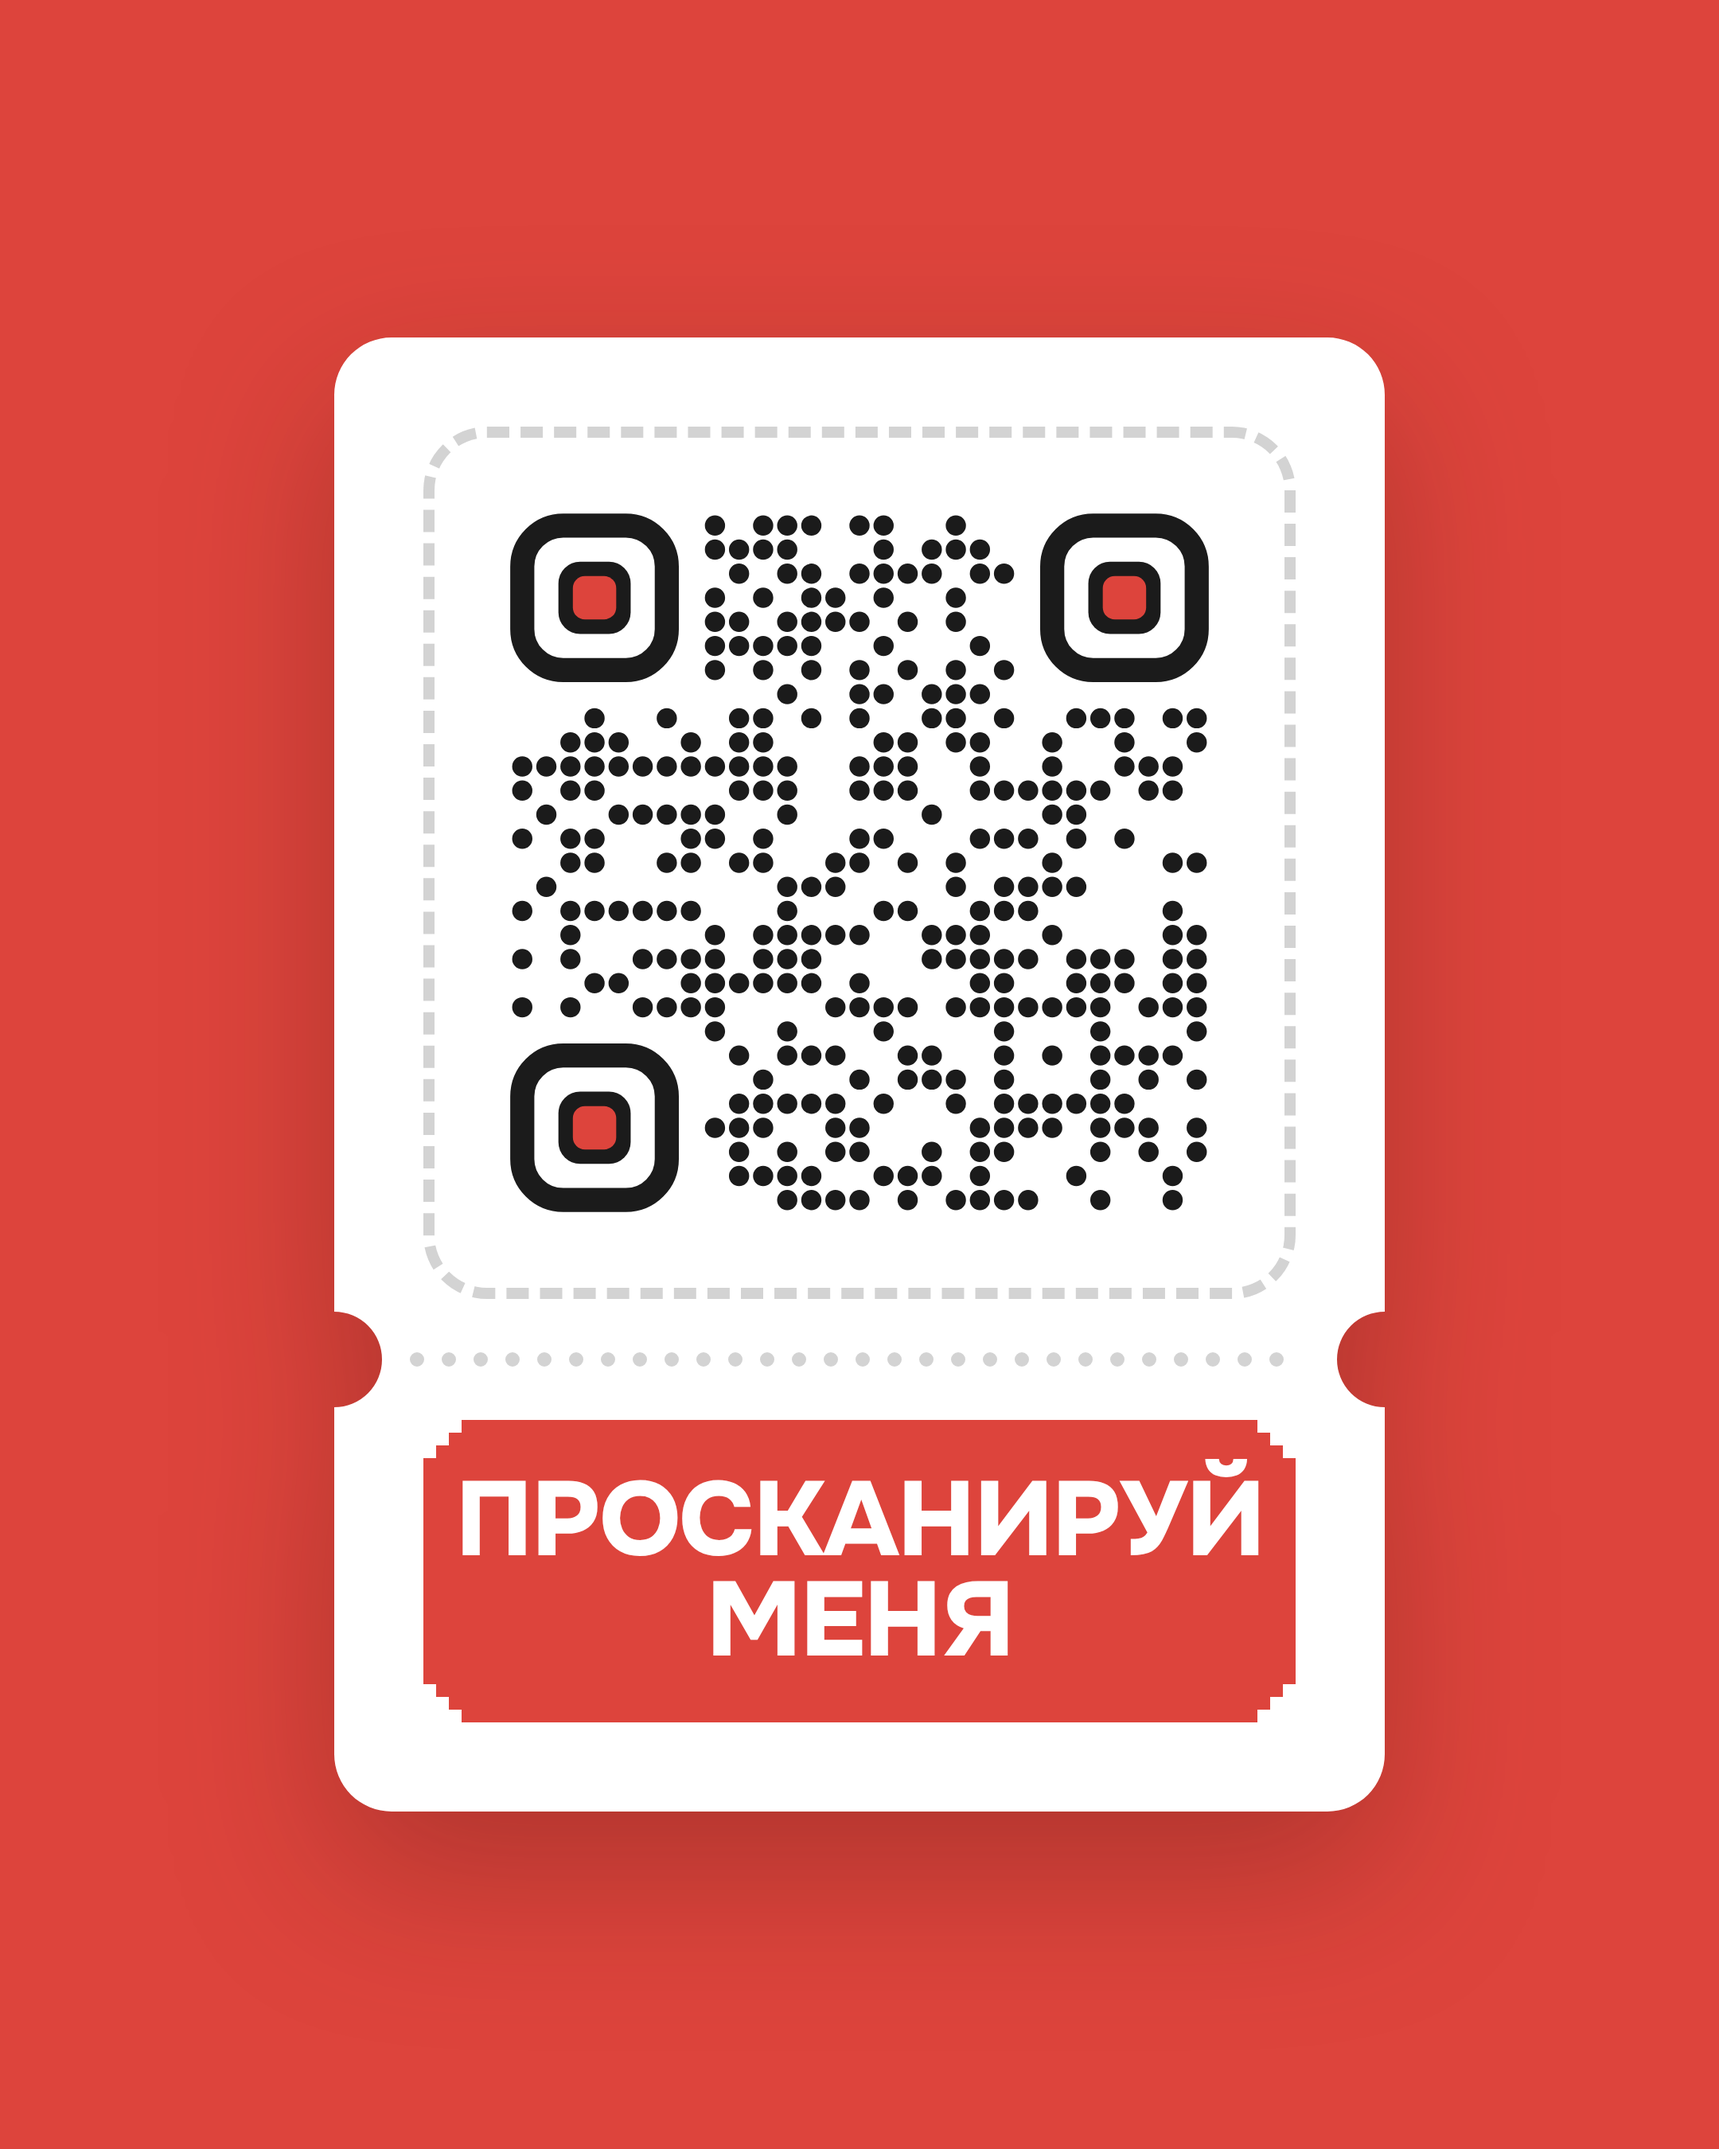
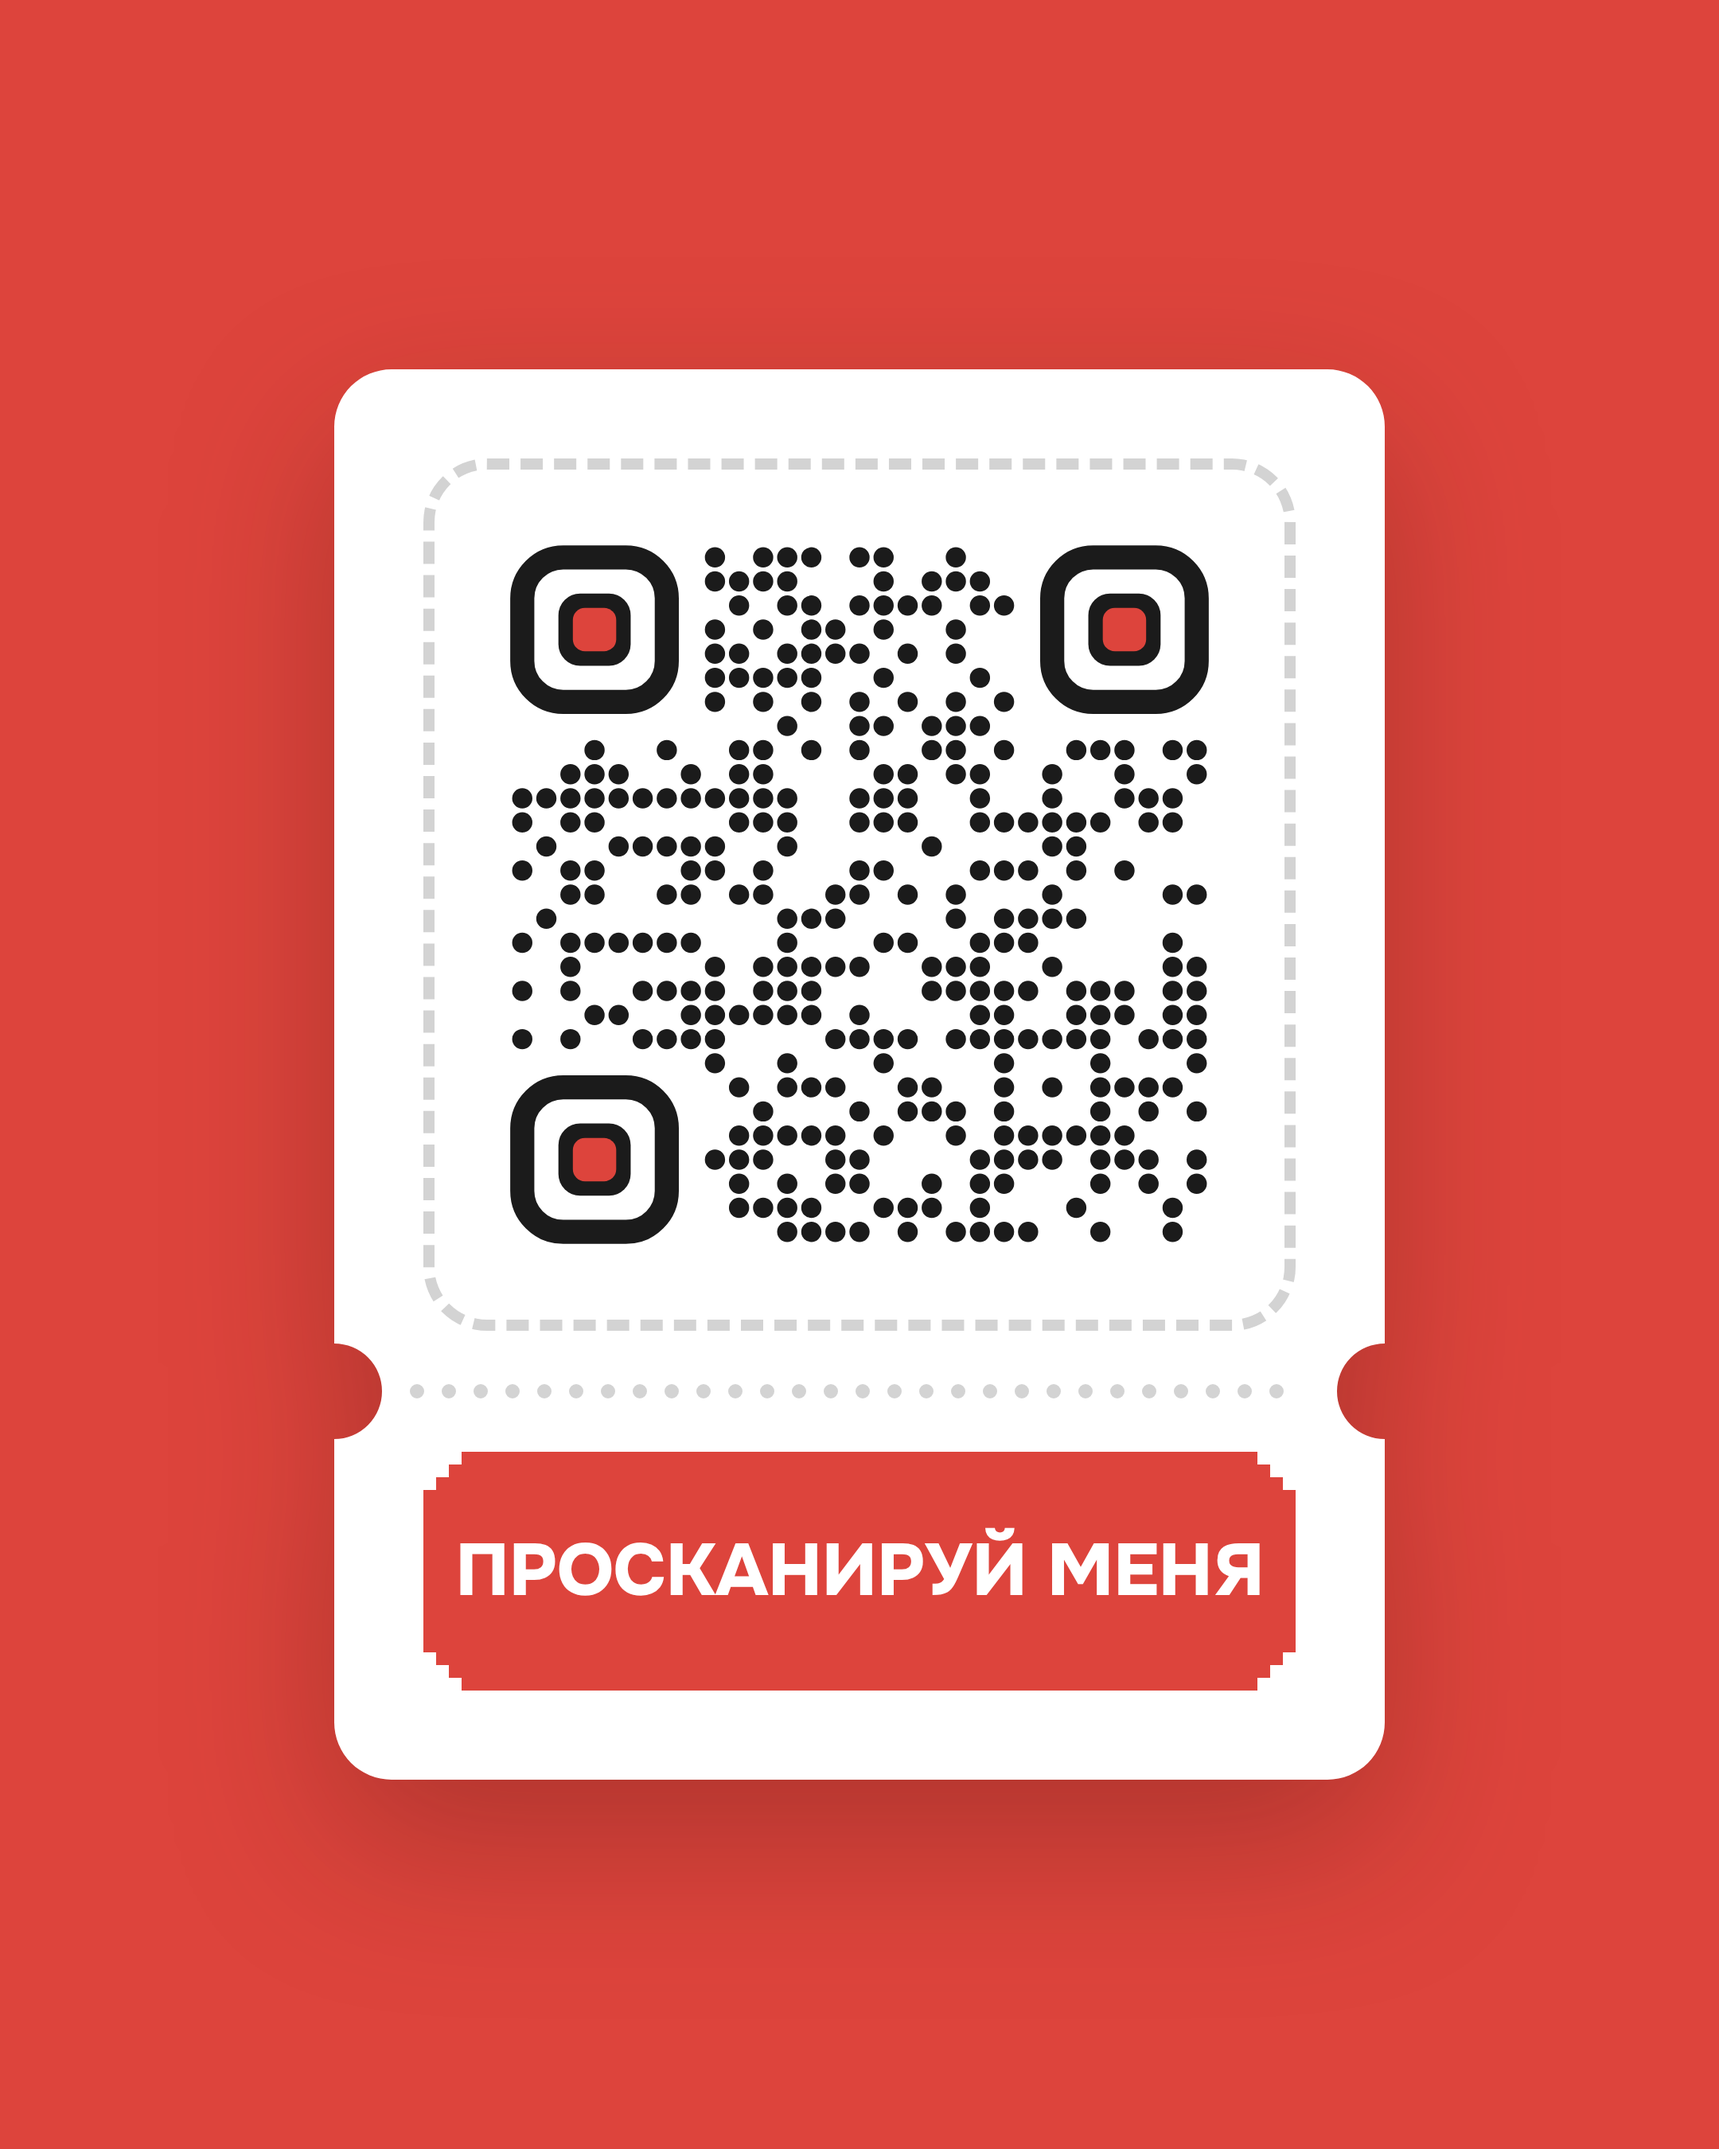
QR-билеты: надпись «Просканируй меня» в одну строку, вариант C (купон со скидкой) убран
Claude-Session: https://claude.ai/code/session_01M3C7PePbBWD8UdhAot99Ud

Changed region(s): [[0.1861, 0.1556, 0.8065, 0.84], [0.7755, 0.5911, 0.8065, 0.6844]]

diff --git a/social-kit/qr-coupons.html b/social-kit/qr-coupons.html
@@ -14,7 +14,6 @@
      краем, визитка с аватаром):
        A. Билет — волнистый верх и низ, красный QR с логотипом, корешок с сайтом.
        B. Визитка — логотип в круге сверху, название, пунктир с вырезами, QR.
-       C. Купон со скидкой — выгода и условия сверху, QR-код купона и сам код.
        D. Красный билет — инверсия A: белый QR на красном.
        E. «Просканируй меня» — по референсу с −50%, но вертикально: точечный
           QR в пунктирной рамке занимает большую часть, ниже линия отрыва и
@@ -26,7 +25,7 @@
      Контуры билетов — векторные, считает скрипт внизу: в Figma переносятся
      одним path, вырезы — настоящие, а не круги поверх.
 
-     PNG — render-qr.py → out/qr/qr-a.png … qr-d.png (1080×1350).
+     PNG — render-qr.py → out/qr/qr-a.png … qr-f.png (без C) (1080×1350).
      ========================================================================== -->
 <link rel="stylesheet" href="fonts/onest.css">
 <style>
@@ -90,19 +89,6 @@ a{color:inherit;text-decoration:none}
 .qb__site{margin-top:40px;font-size:30px;font-weight:700;color:var(--ink-2)}
 .qb__site b{color:var(--brand);font-weight:800}
 
-/* ---------- C. Купон со скидкой ---------- */
-.qc{width:660px;padding:92px 64px 0;align-items:stretch}
-.qc__top{display:flex;flex-direction:column-reverse;align-items:flex-start;gap:22px}
-.qc__val{font-size:132px;font-weight:800;letter-spacing:-.05em;line-height:.85;color:var(--brand)}
-.qc__cat{padding:10px 18px;border-radius:999px;background:var(--brand-50);color:var(--brand);font-size:22px;font-weight:700;white-space:nowrap}
-.qc__t{margin-top:30px;font-size:40px;font-weight:800;letter-spacing:-.02em;line-height:1.15}
-.qc__m{margin-top:14px;font-size:24px;font-weight:500;color:var(--ink-2);line-height:1.4}
-.qc__bot{margin-top:116px;padding-bottom:84px;display:flex;align-items:center;gap:36px}
-.qc .qr{flex:none;width:250px;height:250px}
-.qc__k{font-size:22px;font-weight:500;color:var(--ink-3)}
-.qc__code{margin-top:8px;font-size:52px;font-weight:800;letter-spacing:.06em;line-height:1}
-.qc__note{margin-top:22px;font-size:21px;font-weight:500;color:var(--ink-2);line-height:1.35}
-.qc__erid{position:absolute;right:28px;bottom:22px;font-size:14px;color:var(--ink-3)}
 
 /* ---------- D. Красный билет ---------- */
 .qd .qt__bg path{fill:var(--brand)}
@@ -115,8 +101,8 @@ a{color:inherit;text-decoration:none}
 .qe__frame{width:548px;height:548px;padding:40px;border:7px dashed #D3D3D3;border-radius:40px}
 .qe .qr{width:100%;height:100%}
 .qe__gap{height:76px}
-.qe__plq{width:548px;margin-bottom:56px;height:190px;display:grid;place-items:center;background:var(--brand);color:#fff;
-  font-size:66px;font-weight:800;letter-spacing:-.02em;line-height:.95;text-align:center;text-transform:uppercase;
+.qe__plq{width:548px;margin-bottom:56px;height:150px;display:grid;place-items:center;white-space:nowrap;background:var(--brand);color:#fff;
+  font-size:46px;font-weight:800;letter-spacing:-.01em;line-height:1;text-align:center;text-transform:uppercase;
   /* ступенчатые «пиксельные» углы, как у плашки −50% в референсе */
   clip-path:polygon(0 24px,8px 24px,8px 16px,16px 16px,16px 8px,24px 8px,24px 0,calc(100% - 24px) 0,calc(100% - 24px) 8px,calc(100% - 16px) 8px,calc(100% - 16px) 16px,calc(100% - 8px) 16px,calc(100% - 8px) 24px,100% 24px,
     100% calc(100% - 24px),calc(100% - 8px) calc(100% - 24px),calc(100% - 8px) calc(100% - 16px),calc(100% - 16px) calc(100% - 16px),calc(100% - 16px) calc(100% - 8px),calc(100% - 24px) calc(100% - 8px),calc(100% - 24px) 100%,
@@ -157,28 +143,6 @@ a{color:inherit;text-decoration:none}
     </div>
   </section>
 
-  <!-- C. Купон со скидкой -->
-  <section class="tile tile--red" data-name="qr-c">
-    <div class="qt qt--shadow qc" data-shape="wave" data-cut="#qc-cut">
-      <div class="qc__top">
-        <div class="qc__val">−30%</div>
-        <span class="qc__cat">Кафе и&nbsp;рестораны</span>
-      </div>
-      <div class="qc__t">Комбо-обед по&nbsp;будням до&nbsp;16:00</div>
-      <div class="qc__m">Кафе «Рыба» · Липецк, ул.&nbsp;Первомайская,&nbsp;12<br>Действует с&nbsp;1 по&nbsp;14 октября</div>
-      <div class="qc__bot" id="qc-cut">
-        <a class="qr" href="https://vsekupony.ru/c/CITY482"><img src="qr/qr-coupon-ink.svg" alt="QR-код купона CITY482">
-          <span class="qr__logo"><img src="../assets/brand/logo-white.png" alt=""></span></a>
-        <div>
-          <div class="qc__k">Код купона</div>
-          <div class="qc__code">CITY482</div>
-          <div class="qc__note">Покажите QR или код на&nbsp;кассе — скидка применится сразу</div>
-        </div>
-      </div>
-      <span class="qc__erid">Реклама · erid 2Vt1A9F3K</span>
-    </div>
-  </section>
-
   <!-- D. Красный билет -->
   <section class="tile tile--light" data-name="qr-d">
     <div class="qt qt--shadow qa qd" data-shape="wave" data-cut="#qd-cut" data-dash="light">
@@ -196,7 +160,7 @@ a{color:inherit;text-decoration:none}
     <div class="qt qt--shadow qe" data-shape="round" data-cut="#qe-cut" data-dash="dots">
       <div class="qe__frame"><a class="qr" href="https://vsekupony.ru"><img src="qr/qr-site-dots-ink.svg" alt="QR-код: vsekupony.ru"></a></div>
       <div class="qe__gap" id="qe-cut"></div>
-      <div class="qe__plq">Просканируй<br>меня</div>
+      <div class="qe__plq">Просканируй меня</div>
     </div>
   </section>
 
@@ -205,7 +169,7 @@ a{color:inherit;text-decoration:none}
     <div class="qt qt--shadow qe qf" data-shape="round" data-cut="#qf-cut" data-dash="dots-light">
       <div class="qe__frame"><a class="qr" href="https://vsekupony.ru"><img src="qr/qr-site-dots-ink.svg" alt="QR-код: vsekupony.ru"></a></div>
       <div class="qe__gap" id="qf-cut"></div>
-      <div class="qe__plq">Просканируй<br>меня</div>
+      <div class="qe__plq">Просканируй меня</div>
     </div>
   </section>
 

diff --git a/social-kit/build-qr.py b/social-kit/build-qr.py
@@ -20,8 +20,6 @@ OUT = ROOT / "qr"
 
 CODES = {
     "site": "https://vsekupony.ru",
-    # Пример купона: код CITY482 открывает купон на сайте
-    "coupon": "https://vsekupony.ru/c/CITY482",
 }
 COLORS = {"red": "#DD443C", "ink": "#1B1B1B", "white": "#FFFFFF"}
 

diff --git a/social-kit/README.md b/social-kit/README.md
@@ -219,16 +219,15 @@
 ## QR-билеты (qr-coupons.html)
 
 Вертикальные QR-купоны по референсам (билет с волнистым краем, визитка, «просканируй меня»),
-продолжение блока `.qrc` из презентации. Шесть вариантов, пост 1080×1350:
+продолжение блока `.qrc` из презентации. Пять вариантов, пост 1080×1350:
 
 | | |
 |---|---|
 | A | белый билет, волнистые края, красный QR с логотипом, корешок с сайтом |
 | B | визитка: логотип в круге, название, пунктир с вырезами, QR |
-| C | купон со скидкой: выгода и условия сверху, QR и код купона снизу |
 | D | красный билет — инверсия A |
 | E | «Просканируй меня»: точечный QR в пунктирной рамке, красная плашка с надписью, купон белый |
 | F | то же на красном купоне: плашка белая, QR тёмный на белой подложке |
 
 - `build-qr.py` — QR в `qr/*.svg` (уровень H, окно под логотип; точечный стиль `*-dots-*`).
-- `render-qr.py` — PNG ×2 в `out/qr/qr-a.png … qr-f.png`.
+- `render-qr.py` — PNG ×2 в `out/qr/qr-a.png … qr-f.png` (варианта C нет — убран).
